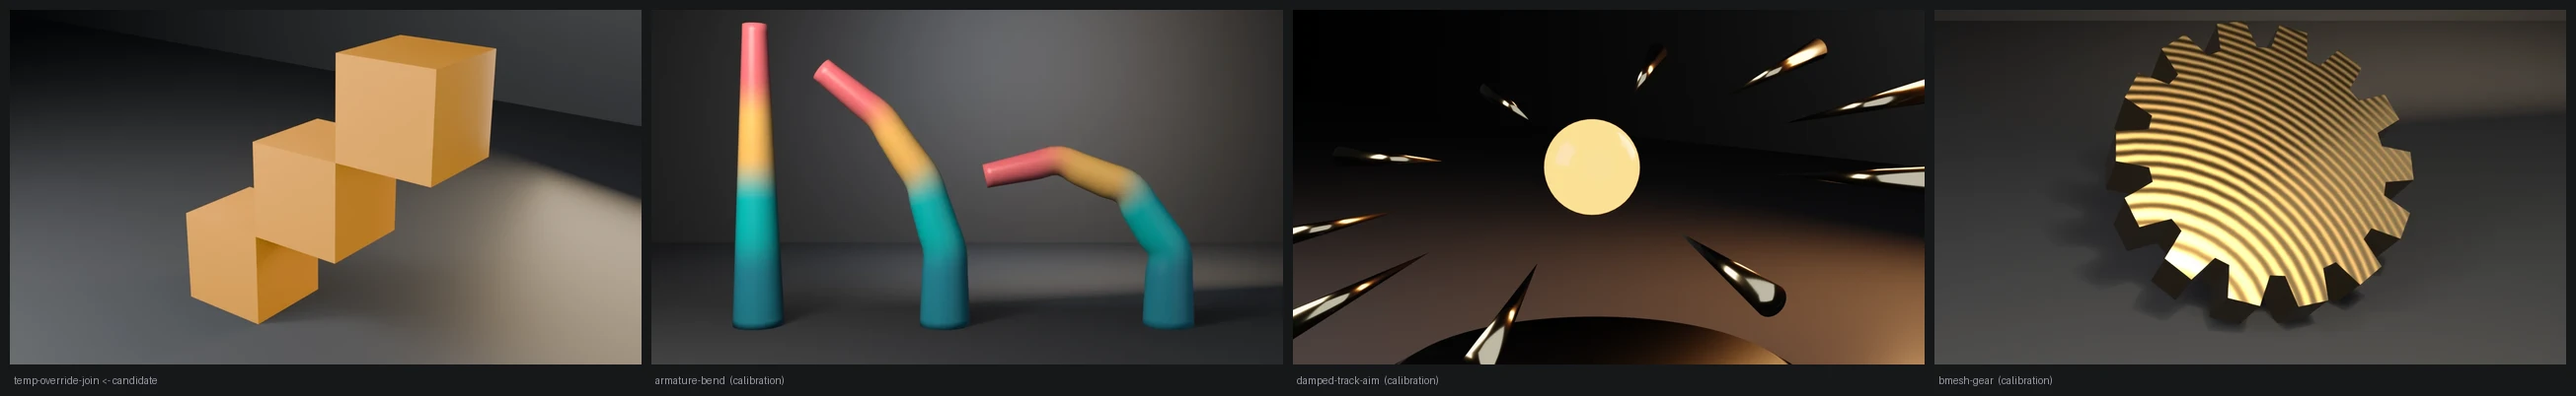
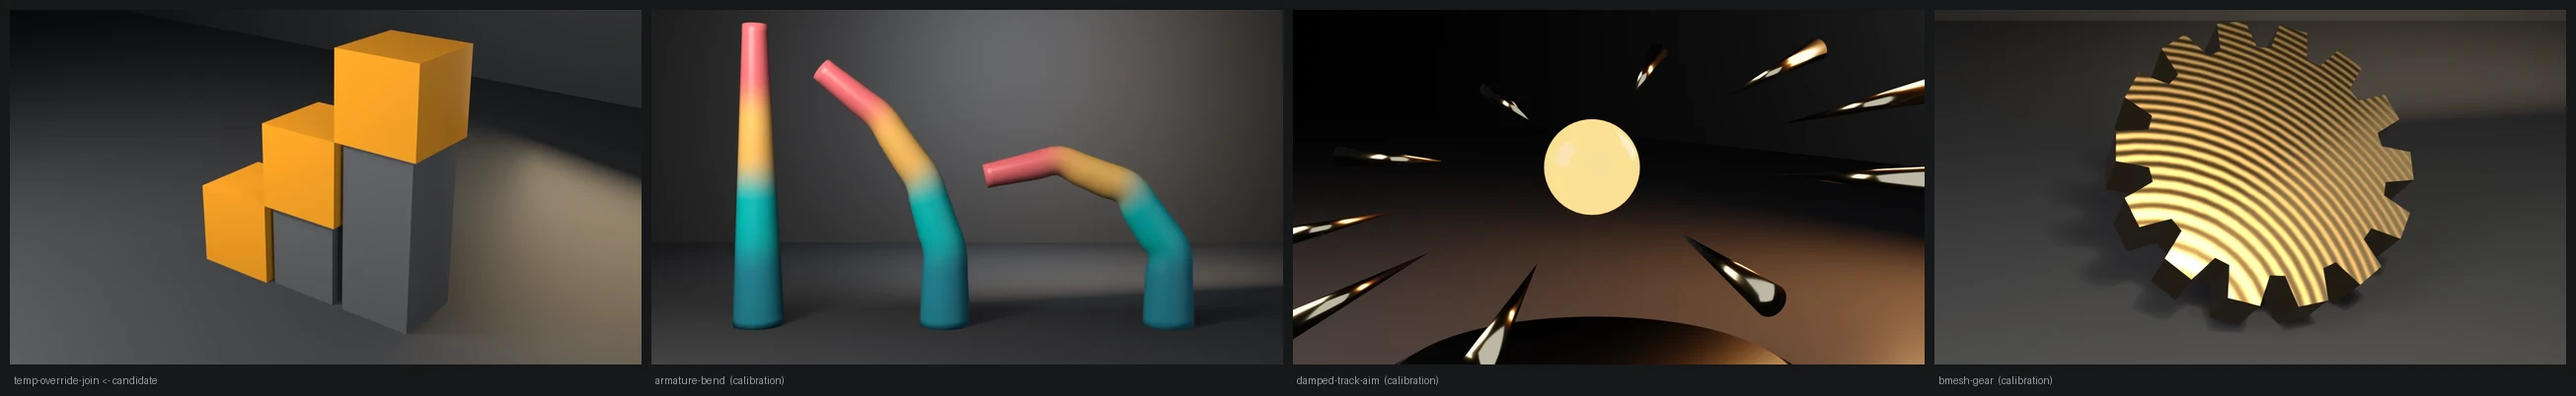
fix(examples): temp-override-join staircase stands on plinths instead of hanging
Render path only. The check, its assertions and exit codes are unchanged.
examples/gallery.json and docs/gallery/index.html also carry the
gn-instance-grid, hay-bale and treasure-chest card alts.

Changed region(s): [[0.0621, 0.0597, 0.2483, 0.9254]]

diff --git a/docs/gallery/temp-override-join/index.html b/docs/gallery/temp-override-join/index.html
@@ -16,13 +16,13 @@
   <meta property="og:image" content="https://tmhsdigital.github.io/Blender-Developer-Tools/gallery/assets/temp-override-join-hero.webp" />
   <meta property="og:image:width" content="1280" />
   <meta property="og:image:height" content="720" />
-  <meta property="og:image:alt" content="Three orange cubes joined into a single diagonal staircase object." />
+  <meta property="og:image:alt" content="Three amber cubes joined into a single diagonal staircase object, the upper steps standing on grey plinths." />
   <meta property="og:site_name" content="Blender Developer Tools" />
   <meta name="twitter:card" content="summary_large_image" />
   <meta name="twitter:title" content="temp-override-join — Examples — Blender Developer Tools" />
   <meta name="twitter:description" content="Join three unit cubes into a staircase under bpy.context.temp_override — the supported replacement for the removed context.copy() dict-pass form." />
   <meta name="twitter:image" content="https://tmhsdigital.github.io/Blender-Developer-Tools/gallery/assets/temp-override-join-hero.webp" />
-  <meta name="twitter:image:alt" content="Three orange cubes joined into a single diagonal staircase object." />
+  <meta name="twitter:image:alt" content="Three amber cubes joined into a single diagonal staircase object, the upper steps standing on grey plinths." />
   <style>
     /* fonts are deployed by the landing build (docs/fonts/) */
     @font-face { font-family: 'Barlow Condensed'; font-weight: 600; font-display: swap;
@@ -268,8 +268,8 @@
     <p>Join three unit cubes into a staircase under bpy.context.temp_override — the supported replacement for the removed context.copy() dict-pass form.</p>
   </header>
   <main id="main">
-    <button class="detail-hero" id="heroZoom" type="button" aria-label="View full size: Three orange cubes joined into a single diagonal staircase object.">
-      <img src="../assets/temp-override-join-hero.webp" alt="Three orange cubes joined into a single diagonal staircase object." width="1280" height="720" />
+    <button class="detail-hero" id="heroZoom" type="button" aria-label="View full size: Three amber cubes joined into a single diagonal staircase object, the upper steps standing on grey plinths.">
+      <img src="../assets/temp-override-join-hero.webp" alt="Three amber cubes joined into a single diagonal staircase object, the upper steps standing on grey plinths." width="1280" height="720" />
     </button>
     <p class="zoom-hint">Rendered headless by the example itself — click to zoom.</p>
     <div class="callout"><span class="tag">witnesses</span> temp_override actually applies: join consumes the sources, exactly one mesh remains, topology is verts = 8 × steps, and local Z spans all three steps.</div>
@@ -427,6 +427,34 @@ EXPECT_Z_HI = (STEPS - <span class="n">1</span>) * CUBE_SIZE + HALF
     <span class="c"># center the staircase footprint; origin is step-0 center</span>
     obj.location = (-(STEPS - <span class="n">1</span>) * CUBE_SIZE / <span class="n">2</span>, <span class="n">0.0</span>, HALF)
 
+    <span class="c"># Stepped plinths under steps 1 and up. The joined steps meet only</span>
+    <span class="c"># along an edge (the geometry the check asserts), so without support</span>
+    <span class="c"># the upper cubes hung in the air. Render-only scaffolding, slimmer</span>
+    <span class="c"># than a step and stopping 2 mm short so no face is shared.</span>
+    plinth_mat = bpy.data.materials.new(<span class="s">&quot;Plinth&quot;</span>)
+    plinth_mat.use_nodes = <span class="k">True</span>
+    pb = plinth_mat.node_tree.nodes[<span class="s">&quot;Principled BSDF&quot;</span>]
+    pb.inputs[<span class="s">&quot;Base Color&quot;</span>].default_value = (<span class="n">0.11</span>, <span class="n">0.115</span>, <span class="n">0.125</span>, <span class="n">1.0</span>)
+    pb.inputs[<span class="s">&quot;Roughness&quot;</span>].default_value = <span class="n">0.75</span>
+    plinths = []
+    <span class="k">for</span> i <span class="k">in</span> range(<span class="n">1</span>, STEPS):
+        top = i * CUBE_SIZE - <span class="n">0.002</span>
+        pme = bpy.data.meshes.new(<span class="s">f&quot;</span><span class="s">Plinth</span>{i}<span class="s">&quot;</span>)
+        pbm = bmesh.new()
+        <span class="k">try</span>:
+            bmesh.ops.create_cube(pbm, size=<span class="n">1.0</span>)
+            bmesh.ops.scale(pbm, vec=(CUBE_SIZE * <span class="n">0.86</span>, CUBE_SIZE * <span class="n">0.86</span>, top),
+                            verts=pbm.verts)
+            bmesh.ops.translate(pbm, vec=(<span class="n">0.0</span>, <span class="n">0.0</span>, top / <span class="n">2.0</span>), verts=pbm.verts)
+            pbm.to_mesh(pme)
+        <span class="k">finally</span>:
+            pbm.free()
+        pme.materials.append(plinth_mat)
+        pob = bpy.data.objects.new(<span class="s">f&quot;</span><span class="s">Plinth</span>{i}<span class="s">&quot;</span>, pme)
+        pob.location = (obj.location.x + i * CUBE_SIZE, <span class="n">0.0</span>, <span class="n">0.0</span>)
+        scene.collection.objects.link(pob)
+        plinths.append(pob)
+
     floor_me = bpy.data.meshes.new(<span class="s">&quot;Floor&quot;</span>)
     bm = bmesh.new()
     <span class="k">try</span>:
@@ -453,7 +481,7 @@ EXPECT_Z_HI = (STEPS - <span class="n">1</span>) * CUBE_SIZE + HALF
     scene.world = world
 
     aim = bpy.data.objects.new(<span class="s">&quot;Aim&quot;</span>, <span class="k">None</span>)
-    aim.location = (<span class="n">0.0</span>, <span class="n">0.0</span>, STEPS * CUBE_SIZE / <span class="n">2</span>)
+    aim.location = (<span class="n">0.0</span>, <span class="n">0.0</span>, STEPS * CUBE_SIZE * <span class="n">0.4</span>)
     scene.collection.objects.link(aim)
 
     <span class="k">def</span> light(name, loc, energy, size, col):
@@ -469,14 +497,19 @@ EXPECT_Z_HI = (STEPS - <span class="n">1</span>) * CUBE_SIZE + HALF
         lc.track_axis = <span class="s">&#x27;TRACK_NEGATIVE_Z&#x27;</span>
         lc.up_axis = <span class="s">&#x27;UP_Y&#x27;</span>
 
-    light(<span class="s">&quot;Key&quot;</span>, (-<span class="n">4.0</span>, -<span class="n">5.0</span>, <span class="n">6.0</span>), <span class="n">1500.0</span>, <span class="n">6.0</span>, (<span class="n">1.0</span>, <span class="n">0.98</span>, <span class="n">0.94</span>))
-    light(<span class="s">&quot;Fill&quot;</span>, (<span class="n">5.0</span>, -<span class="n">3.5</span>, <span class="n">3.0</span>), <span class="n">340.0</span>, <span class="n">8.0</span>, (<span class="n">0.8</span>, <span class="n">0.87</span>, <span class="n">1.0</span>))
-    light(<span class="s">&quot;Rim&quot;</span>, (<span class="n">1.5</span>, <span class="n">5.0</span>, <span class="n">2.5</span>), <span class="n">480.0</span>, <span class="n">4.0</span>, (<span class="n">1.0</span>, <span class="n">0.75</span>, <span class="n">0.45</span>))
+    <span class="c"># 1500 W was tuned under the default AgX view; under Standard it lifted</span>
+    <span class="c"># the frame above the calibration luma band.</span>
+    light(<span class="s">&quot;Key&quot;</span>, (-<span class="n">4.0</span>, -<span class="n">5.0</span>, <span class="n">6.0</span>), <span class="n">950.0</span>, <span class="n">6.0</span>, (<span class="n">1.0</span>, <span class="n">0.98</span>, <span class="n">0.94</span>))
+    <span class="c"># Fill and rim softened: at 340 / 480 they threw a hot pool onto the</span>
+    <span class="c"># floor to the right of the steps, the brightest thing in frame.</span>
+    light(<span class="s">&quot;Fill&quot;</span>, (<span class="n">5.0</span>, -<span class="n">3.5</span>, <span class="n">3.0</span>), <span class="n">200.0</span>, <span class="n">8.0</span>, (<span class="n">0.8</span>, <span class="n">0.87</span>, <span class="n">1.0</span>))
+    light(<span class="s">&quot;Rim&quot;</span>, (<span class="n">1.5</span>, <span class="n">5.0</span>, <span class="n">2.5</span>), <span class="n">220.0</span>, <span class="n">4.0</span>, (<span class="n">1.0</span>, <span class="n">0.75</span>, <span class="n">0.45</span>))
 
     cam_data = bpy.data.cameras.new(<span class="s">&quot;Cam&quot;</span>)
     cam_data.lens = <span class="n">50.0</span>
     cam = bpy.data.objects.new(<span class="s">&quot;Cam&quot;</span>, cam_data)
-    cam.location = (<span class="n">5.0</span>, -<span class="n">6.4</span>, <span class="n">4.6</span>)
+    <span class="c"># Pulled back so the plinths, which reach the floor, clear the bottom edge.</span>
+    cam.location = (<span class="n">5.7</span>, -<span class="n">7.3</span>, <span class="n">5.1</span>)
     scene.collection.objects.link(cam)
     scene.camera = cam
     track = cam.constraints.new(<span class="s">&#x27;TRACK_TO&#x27;</span>)
@@ -496,6 +529,7 @@ EXPECT_Z_HI = (STEPS - <span class="n">1</span>) * CUBE_SIZE + HALF
     scene.render.resolution_y = <span class="n">720</span>
     scene.render.image_settings.file_format = <span class="s">&#x27;PNG&#x27;</span>
     scene.render.filepath = path
+    scene.view_settings.view_transform = <span class="s">&#x27;Standard&#x27;</span>  <span class="c"># docs/VISUAL-STYLE.md</span>
     bpy.ops.render.render(write_still=<span class="k">True</span>)
     <span class="k">return</span> os.path.exists(path) <span class="k">and</span> os.path.getsize(path) &gt; <span class="n">0</span>
 
@@ -546,7 +580,7 @@ EXPECT_Z_HI = (STEPS - <span class="n">1</span>) * CUBE_SIZE + HALF
   </main>
   <dialog class="lightbox" id="lightbox" aria-label="Full-size render">
     <button class="lightbox-close" type="button" autofocus>Close</button>
-    <img src="../assets/temp-override-join-hero.webp" alt="Three orange cubes joined into a single diagonal staircase object." />
+    <img src="../assets/temp-override-join-hero.webp" alt="Three amber cubes joined into a single diagonal staircase object, the upper steps standing on grey plinths." />
   </dialog>
   <footer>
     <div class="statusbar">

diff --git a/docs/gallery/index.html b/docs/gallery/index.html
@@ -431,7 +431,7 @@
       </article>
       <article class="card" data-tags="operators context">
         <a class="card-media" href="temp-override-join/" tabindex="-1" aria-hidden="true">
-          <img src="assets/temp-override-join-hero.webp" alt="Three orange cubes joined into a single diagonal staircase object." loading="lazy" decoding="async" />
+          <img src="assets/temp-override-join-hero.webp" alt="Three amber cubes joined into a single diagonal staircase object, the upper steps standing on grey plinths." loading="lazy" decoding="async" />
         </a>
         <div class="card-body">
           <h2><a href="temp-override-join/">temp-override-join</a></h2>
@@ -442,7 +442,7 @@
       </article>
       <article class="card" data-tags="geometry-nodes instancing">
         <a class="card-media" href="gn-instance-grid/" tabindex="-1" aria-hidden="true">
-          <img src="assets/gn-instance-grid-hero.webp" alt="A three-by-three grid of green instanced cubes on a dark floor." loading="lazy" decoding="async" />
+          <img src="assets/gn-instance-grid-hero.webp" alt="A three-by-three grid of green instanced cubes, each sitting on a node of a faint source-grid lattice on a dark floor." loading="lazy" decoding="async" />
         </a>
         <div class="card-body">
           <h2><a href="gn-instance-grid/">gn-instance-grid</a></h2>
@@ -970,7 +970,7 @@
       </article>
       <article class="card" data-tags="mesh export showcase">
         <a class="card-media" href="treasure-chest/" tabindex="-1" aria-hidden="true">
-          <img src="assets/treasure-chest-hero.webp" alt="An open wooden treasure chest with a vaulted lid and dark iron bands." loading="lazy" decoding="async" />
+          <img src="assets/treasure-chest-hero.webp" alt="An open grained wooden treasure chest with iron bands following its barrel-vaulted lid." loading="lazy" decoding="async" />
         </a>
         <div class="card-body">
           <h2><a href="treasure-chest/">treasure-chest</a></h2>
@@ -1179,7 +1179,7 @@
       </article>
       <article class="card" data-tags="mesh export showcase">
         <a class="card-media" href="hay-bale/" tabindex="-1" aria-hidden="true">
-          <img src="assets/hay-bale-hero.webp" alt="A rectangular hay bale bound by two twine belts." loading="lazy" decoding="async" />
+          <img src="assets/hay-bale-hero.webp" alt="A golden fibrous hay bale bound by two thin twine cords with knotted loops on top." loading="lazy" decoding="async" />
         </a>
         <div class="card-body">
           <h2><a href="hay-bale/">hay-bale</a></h2>

diff --git a/examples/temp-override-join/temp_override_join.py b/examples/temp-override-join/temp_override_join.py
@@ -124,6 +124,34 @@ def render_still(obj, path, engine):
     # center the staircase footprint; origin is step-0 center
     obj.location = (-(STEPS - 1) * CUBE_SIZE / 2, 0.0, HALF)
 
+    # Stepped plinths under steps 1 and up. The joined steps meet only
+    # along an edge (the geometry the check asserts), so without support
+    # the upper cubes hung in the air. Render-only scaffolding, slimmer
+    # than a step and stopping 2 mm short so no face is shared.
+    plinth_mat = bpy.data.materials.new("Plinth")
+    plinth_mat.use_nodes = True
+    pb = plinth_mat.node_tree.nodes["Principled BSDF"]
+    pb.inputs["Base Color"].default_value = (0.11, 0.115, 0.125, 1.0)
+    pb.inputs["Roughness"].default_value = 0.75
+    plinths = []
+    for i in range(1, STEPS):
+        top = i * CUBE_SIZE - 0.002
+        pme = bpy.data.meshes.new(f"Plinth{i}")
+        pbm = bmesh.new()
+        try:
+            bmesh.ops.create_cube(pbm, size=1.0)
+            bmesh.ops.scale(pbm, vec=(CUBE_SIZE * 0.86, CUBE_SIZE * 0.86, top),
+                            verts=pbm.verts)
+            bmesh.ops.translate(pbm, vec=(0.0, 0.0, top / 2.0), verts=pbm.verts)
+            pbm.to_mesh(pme)
+        finally:
+            pbm.free()
+        pme.materials.append(plinth_mat)
+        pob = bpy.data.objects.new(f"Plinth{i}", pme)
+        pob.location = (obj.location.x + i * CUBE_SIZE, 0.0, 0.0)
+        scene.collection.objects.link(pob)
+        plinths.append(pob)
+
     floor_me = bpy.data.meshes.new("Floor")
     bm = bmesh.new()
     try:
@@ -150,7 +178,7 @@ def render_still(obj, path, engine):
     scene.world = world
 
     aim = bpy.data.objects.new("Aim", None)
-    aim.location = (0.0, 0.0, STEPS * CUBE_SIZE / 2)
+    aim.location = (0.0, 0.0, STEPS * CUBE_SIZE * 0.4)
     scene.collection.objects.link(aim)
 
     def light(name, loc, energy, size, col):
@@ -166,14 +194,19 @@ def render_still(obj, path, engine):
         lc.track_axis = 'TRACK_NEGATIVE_Z'
         lc.up_axis = 'UP_Y'
 
-    light("Key", (-4.0, -5.0, 6.0), 1500.0, 6.0, (1.0, 0.98, 0.94))
-    light("Fill", (5.0, -3.5, 3.0), 340.0, 8.0, (0.8, 0.87, 1.0))
-    light("Rim", (1.5, 5.0, 2.5), 480.0, 4.0, (1.0, 0.75, 0.45))
+    # 1500 W was tuned under the default AgX view; under Standard it lifted
+    # the frame above the calibration luma band.
+    light("Key", (-4.0, -5.0, 6.0), 950.0, 6.0, (1.0, 0.98, 0.94))
+    # Fill and rim softened: at 340 / 480 they threw a hot pool onto the
+    # floor to the right of the steps, the brightest thing in frame.
+    light("Fill", (5.0, -3.5, 3.0), 200.0, 8.0, (0.8, 0.87, 1.0))
+    light("Rim", (1.5, 5.0, 2.5), 220.0, 4.0, (1.0, 0.75, 0.45))
 
     cam_data = bpy.data.cameras.new("Cam")
     cam_data.lens = 50.0
     cam = bpy.data.objects.new("Cam", cam_data)
-    cam.location = (5.0, -6.4, 4.6)
+    # Pulled back so the plinths, which reach the floor, clear the bottom edge.
+    cam.location = (5.7, -7.3, 5.1)
     scene.collection.objects.link(cam)
     scene.camera = cam
     track = cam.constraints.new('TRACK_TO')
@@ -193,6 +226,7 @@ def render_still(obj, path, engine):
     scene.render.resolution_y = 720
     scene.render.image_settings.file_format = 'PNG'
     scene.render.filepath = path
+    scene.view_settings.view_transform = 'Standard'  # docs/VISUAL-STYLE.md
     bpy.ops.render.render(write_still=True)
     return os.path.exists(path) and os.path.getsize(path) > 0
 
